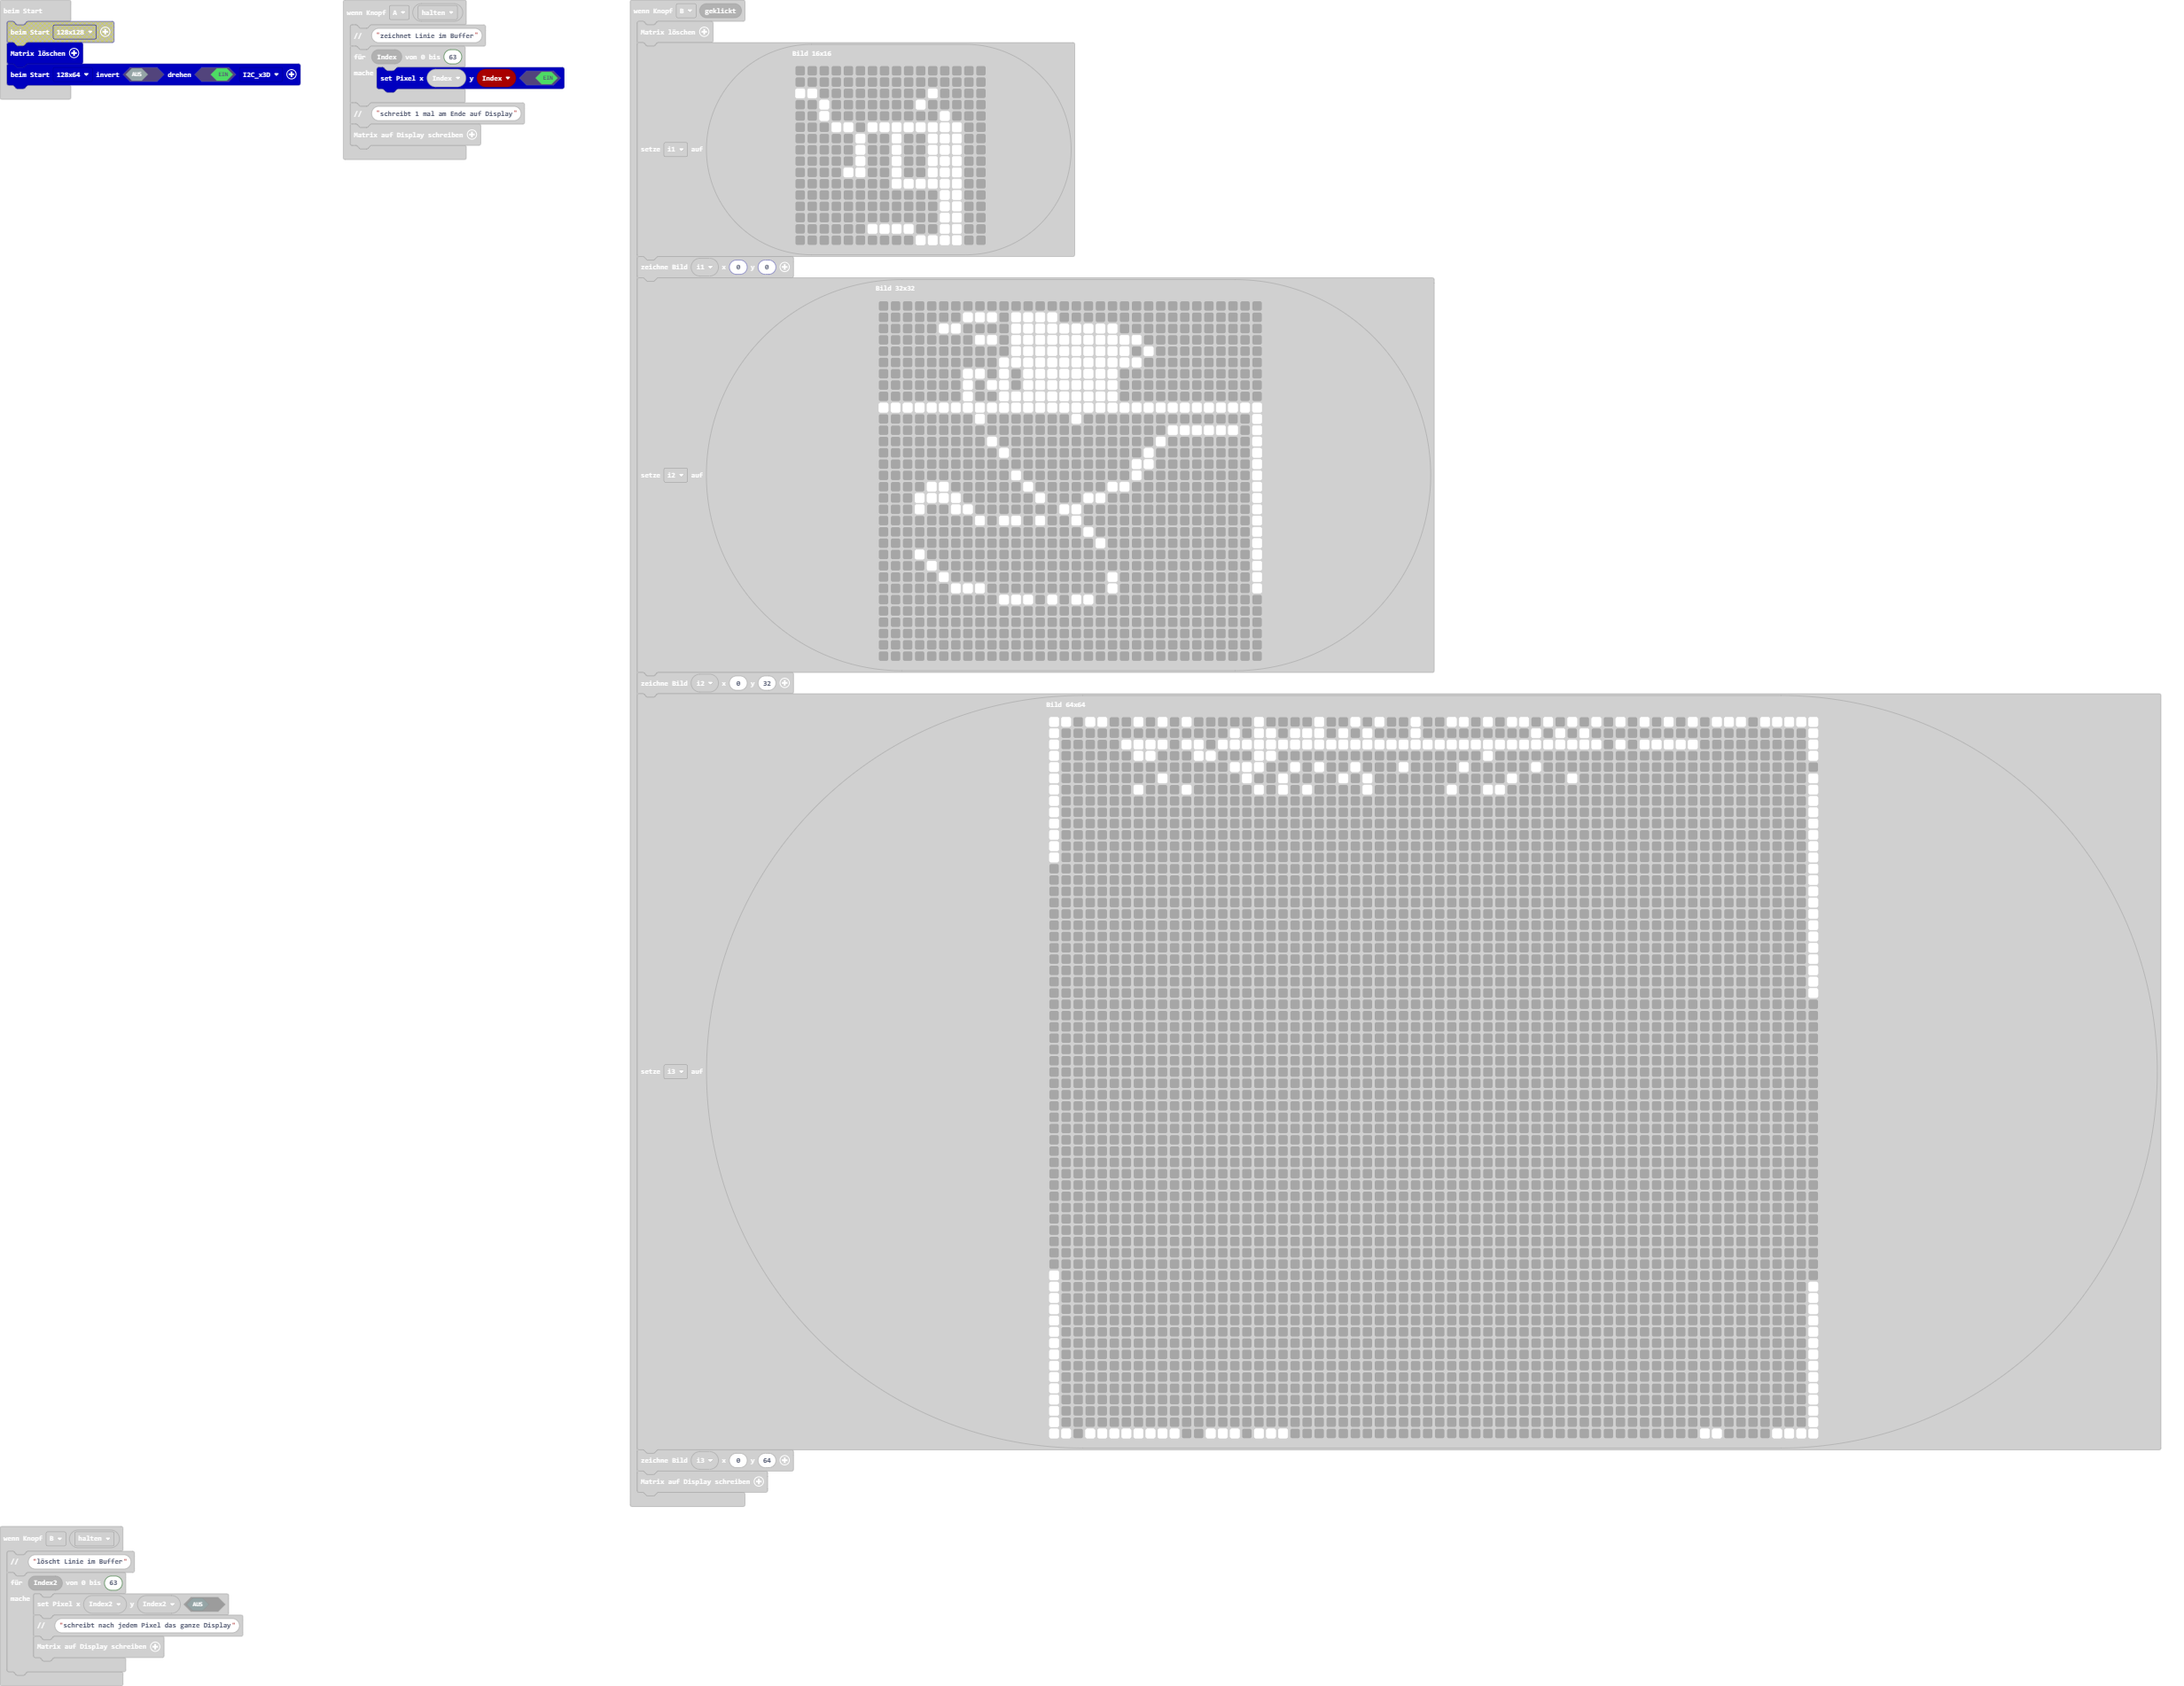
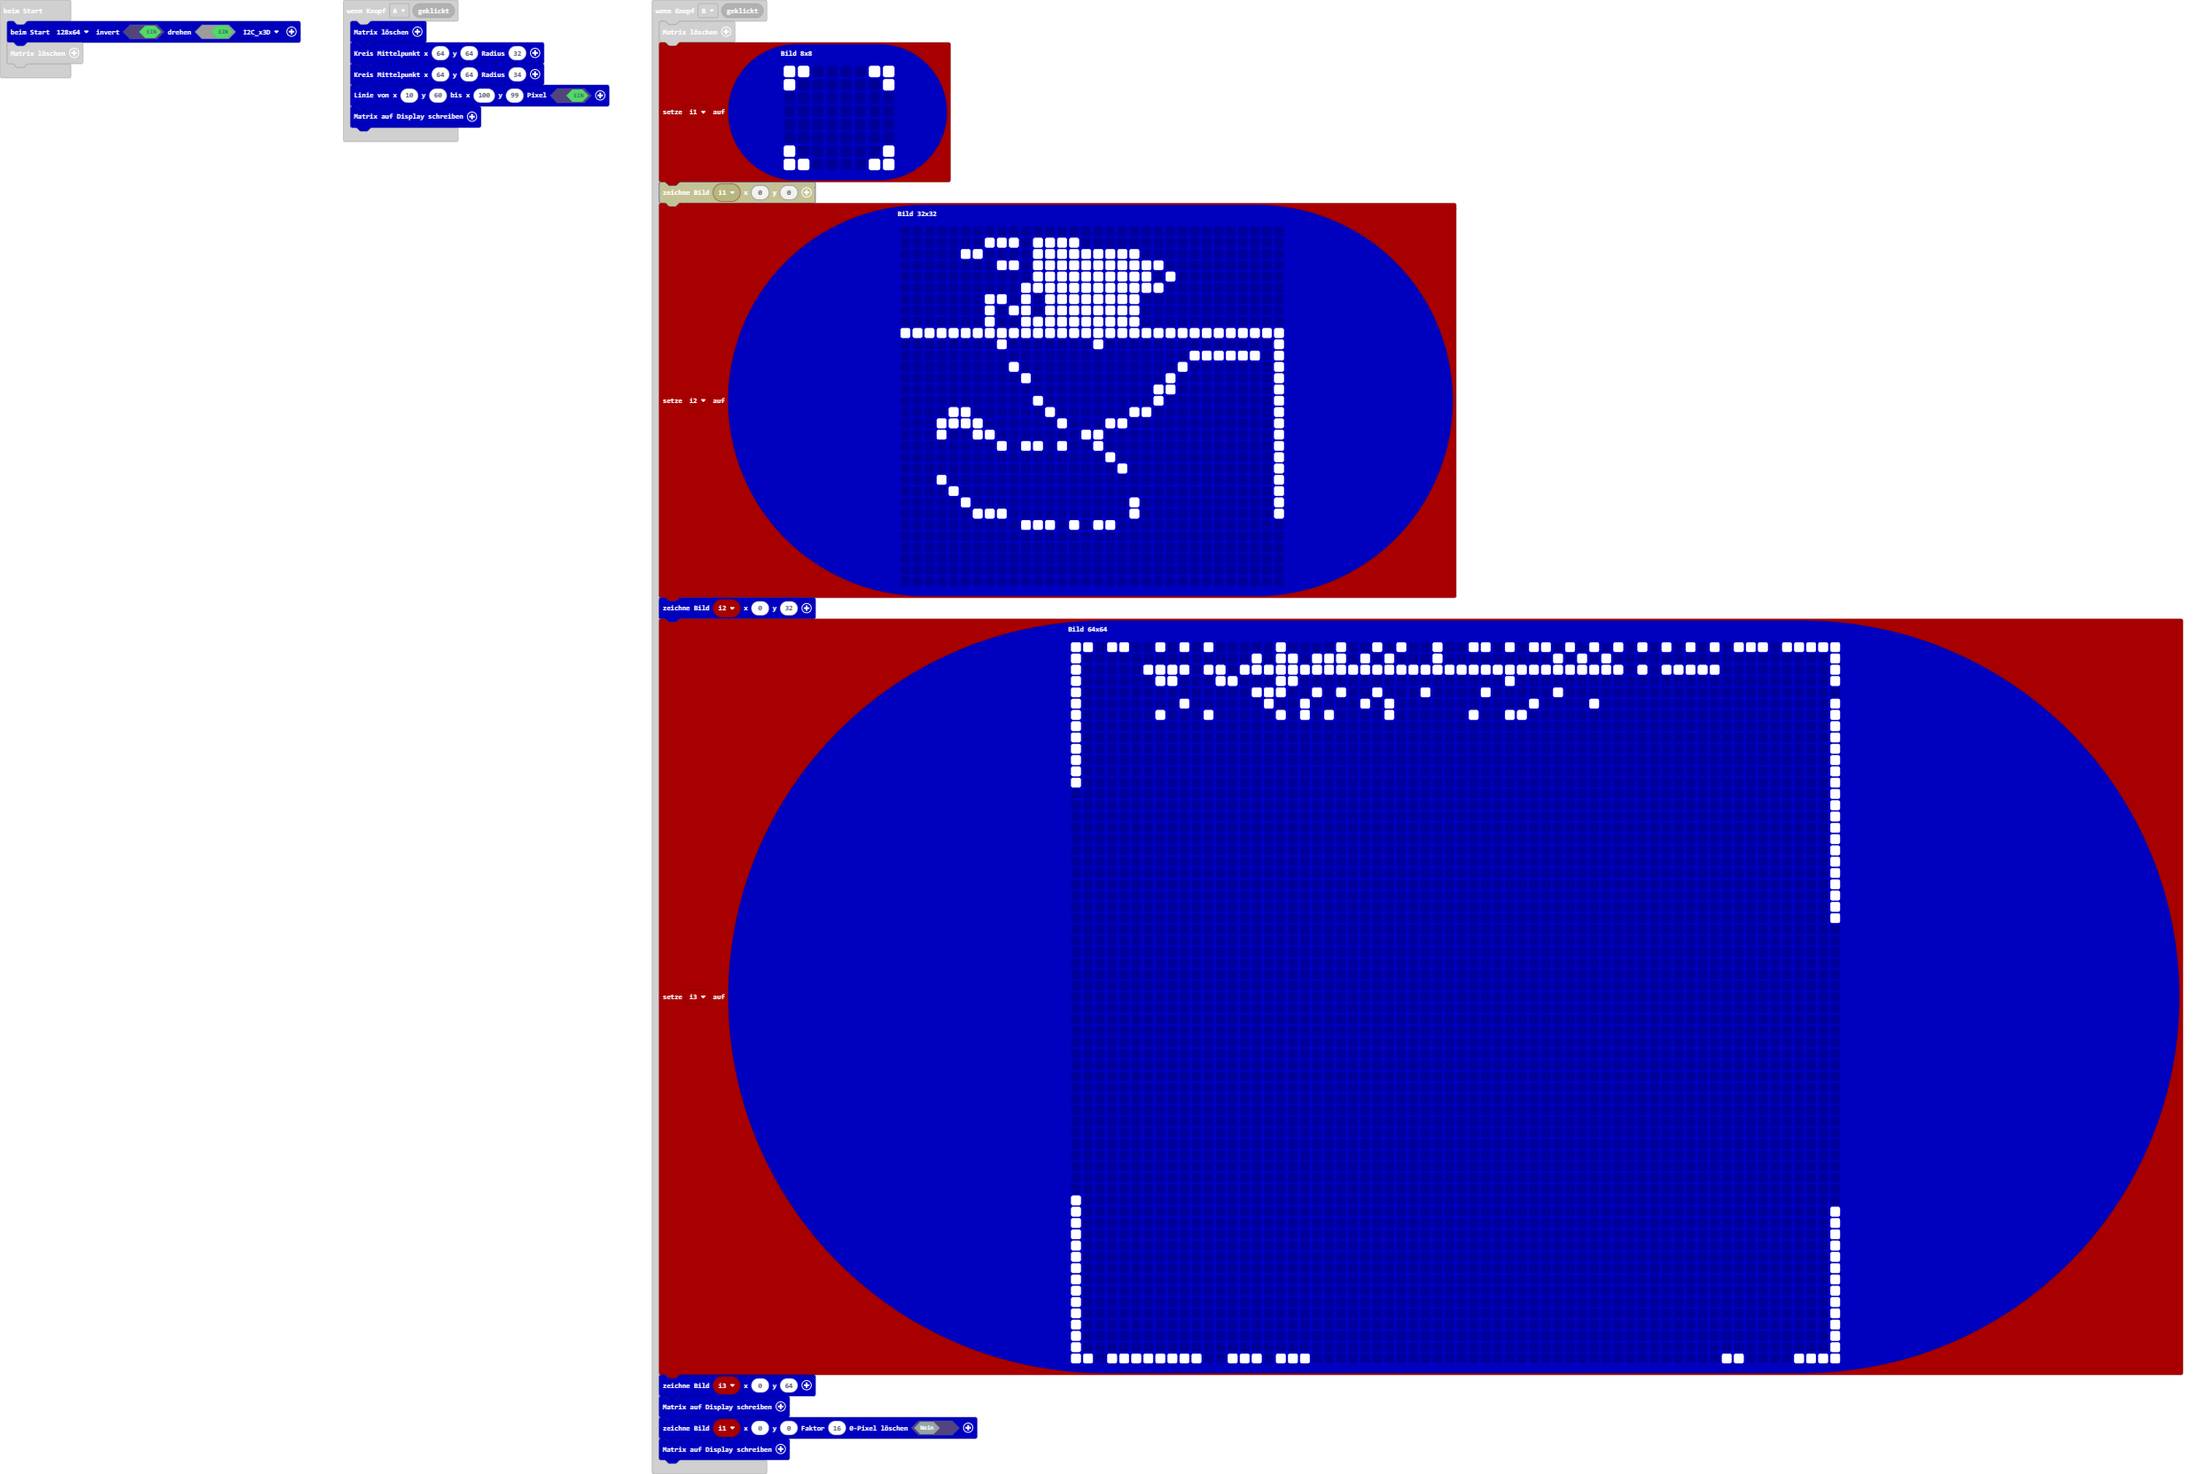
Aktualisiere main.blocks, main.ts

diff --git a/main.ts b/main.ts
@@ -1,4 +1,5 @@
 input.onButtonEvent(Button.A, input.buttonEventClick(), function () {
+    matrix.clearMatrix()
     matrix.rasterCircle(64, 64, 32)
     matrix.rasterCircle(64, 64, 34)
     matrix.line(10, 60, 100, 99, true)
@@ -17,127 +18,17 @@ input.onButtonEvent(Button.AB, input.buttonEventClick(), function () {
 })
 input.onButtonEvent(Button.B, input.buttonEventClick(), function () {
     matrix.clearMatrix()
-    i1 = matrix.matrix16x16(`
-        . . . . . . . . . . . . . . . .
-        . . . . . . . . . . . . . . . .
-        # # . . . . . . . . . # . . . .
-        . . # . . . . . . . # . . . . .
-        . . # . . . . . . . . . # . . .
-        . . . # # . # # # # # # # # . .
-        . . . . . # . . # . . # # # . .
-        . . . . . # . . # . . # # # . .
-        . . . . . # . . # . . # # # . .
-        . . . . # # . . # . . # # # . .
-        . . . . . . . . # # # # # # . .
-        . . . . . . . . . . . . # # . .
-        . . . . . . . . . . . . # # . .
-        . . . . . . . . . . . . # # . .
-        . . . . . . # # # # . . # # . .
-        . . . . . . . . . . # # # # . .
+    i1 = matrix.matrix8x8(`
+        # # . . . . # #
+        # . . . . . . #
+        . . . . . . . .
+        . . . . . . . .
+        . . . . . . . .
+        . . . . . . . .
+        # . . . . . . #
+        # # . . . . # #
         `)
-    matrix.writeImageOLED(i1, 0, 0)
-    i2 = matrix.matrix32x32(`
-        . . . . . . . . . . . . . . . . . . . . . . . . . . . . . . . .
-        . . . . . . . # # # . # # # # . . . . . . . . . . . . . . . . .
-        . . . . . # # . . . . # # # # # # # # # . . . . . . . . . . . .
-        . . . . . . . . # # . # # # # # # # # # # # . . . . . . . . . .
-        . . . . . . . . . . . # # # # # # # # # # . # . . . . . . . . .
-        . . . . . . . . . . # # # # # # # # # # # # . . . . . . . . . .
-        . . . . . . . # # . # . # # # # # # # # . . . . . . . . . . . .
-        . . . . . . . # . # # . # # # # # # # # . . . . . . . . . . . .
-        . . . . . . . # . . # # # # # # # # # # . . . . . . . . . . . .
-        # # # # # # # # # # # # # # # # # # # # # # # # # # # # # # # #
-        . . . . . . . . # . . . . . . . # . . . . . . . . . . . . . . #
-        . . . . . . . . . . . . . . . . . . . . . . . . # # # # # # . #
-        . . . . . . . . . # . . . . . . . . . . . . . # . . . . . . . #
-        . . . . . . . . . . # . . . . . . . . . . . # . . . . . . . . #
-        . . . . . . . . . . . . . . . . . . . . . # # . . . . . . . . #
-        . . . . . . . . . . . # . . . . . . . . . # . . . . . . . . . #
-        . . . . # # . . . . . . # . . . . . . # # . . . . . . . . . . #
-        . . . # # # # . . . . . . # . . . # # . . . . . . . . . . . . #
-        . . . # . . # # . . . . . . . # # . . . . . . . . . . . . . . #
-        . . . . . . . . # . # # . # . . # . . . . . . . . . . . . . . #
-        . . . . . . . . . . . . . . . . . # . . . . . . . . . . . . . #
-        . . . . . . . . . . . . . . . . . . # . . . . . . . . . . . . #
-        . . . # . . . . . . . . . . . . . . . . . . . . . . . . . . . #
-        . . . . # . . . . . . . . . . . . . . . . . . . . . . . . . . #
-        . . . . . # . . . . . . . . . . . . . # . . . . . . . . . . . #
-        . . . . . . # # # . . . . . . . . . . # . . . . . . . . . . . #
-        . . . . . . . . . . # # # . # . # # . . . . . . . . . . . . . .
-        . . . . . . . . . . . . . . . . . . . . . . . . . . . . . . . .
-        . . . . . . . . . . . . . . . . . . . . . . . . . . . . . . . .
-        . . . . . . . . . . . . . . . . . . . . . . . . . . . . . . . .
-        . . . . . . . . . . . . . . . . . . . . . . . . . . . . . . . .
-        . . . . . . . . . . . . . . . . . . . . . . . . . . . . . . . .
-        `)
-    matrix.writeImageOLED(i2, 0, 32)
-    i3 = matrix.matrix64x64(`
-        # # . # # . . # . # . # . . . . . # . . . . # . . # . # . . # . . # # . # . # # . # . # . # . # . # . # . # . # # # . # # # # #
-        # . . . . . . . . . . . . . . # . # # . # # # . # . # . . . # . . . . . . . . . # . # . # . . . . . . . . . . . . . . . . . . #
-        # . . . . . # # # # . # # . # # # # # # # # # # # # # # # # # # # # # # # # # # # # # # # # . # . # # # # # . . . . . . . . . #
-        # . . . . . . # # . . . # # . . . # # . . . . . . . . . . . . . . . . . # . . . . . . . . . . . . . . . . . . . . . . . . . . #
-        # . . . . . . . . . . . . . . # # # . . # . # . . # . . . # . . . . # . . . . . # . . . . . . . . . . . . . . . . . . . . . . .
-        # . . . . . . . . # . . . . . . # . . # . . . . # . # . . . . . . . . . . . # . . . . # . . . . . . . . . . . . . . . . . . . #
-        # . . . . . . # . . . # . . . . . # . # . # . . . . # . . . . . . # . . # # . . . . . . . . . . . . . . . . . . . . . . . . . #
-        # . . . . . . . . . . . . . . . . . . . . . . . . . . . . . . . . . . . . . . . . . . . . . . . . . . . . . . . . . . . . . . #
-        # . . . . . . . . . . . . . . . . . . . . . . . . . . . . . . . . . . . . . . . . . . . . . . . . . . . . . . . . . . . . . . #
-        # . . . . . . . . . . . . . . . . . . . . . . . . . . . . . . . . . . . . . . . . . . . . . . . . . . . . . . . . . . . . . . #
-        # . . . . . . . . . . . . . . . . . . . . . . . . . . . . . . . . . . . . . . . . . . . . . . . . . . . . . . . . . . . . . . #
-        # . . . . . . . . . . . . . . . . . . . . . . . . . . . . . . . . . . . . . . . . . . . . . . . . . . . . . . . . . . . . . . #
-        # . . . . . . . . . . . . . . . . . . . . . . . . . . . . . . . . . . . . . . . . . . . . . . . . . . . . . . . . . . . . . . #
-        . . . . . . . . . . . . . . . . . . . . . . . . . . . . . . . . . . . . . . . . . . . . . . . . . . . . . . . . . . . . . . . #
-        . . . . . . . . . . . . . . . . . . . . . . . . . . . . . . . . . . . . . . . . . . . . . . . . . . . . . . . . . . . . . . . #
-        . . . . . . . . . . . . . . . . . . . . . . . . . . . . . . . . . . . . . . . . . . . . . . . . . . . . . . . . . . . . . . . #
-        . . . . . . . . . . . . . . . . . . . . . . . . . . . . . . . . . . . . . . . . . . . . . . . . . . . . . . . . . . . . . . . #
-        . . . . . . . . . . . . . . . . . . . . . . . . . . . . . . . . . . . . . . . . . . . . . . . . . . . . . . . . . . . . . . . #
-        . . . . . . . . . . . . . . . . . . . . . . . . . . . . . . . . . . . . . . . . . . . . . . . . . . . . . . . . . . . . . . . #
-        . . . . . . . . . . . . . . . . . . . . . . . . . . . . . . . . . . . . . . . . . . . . . . . . . . . . . . . . . . . . . . . #
-        . . . . . . . . . . . . . . . . . . . . . . . . . . . . . . . . . . . . . . . . . . . . . . . . . . . . . . . . . . . . . . . #
-        . . . . . . . . . . . . . . . . . . . . . . . . . . . . . . . . . . . . . . . . . . . . . . . . . . . . . . . . . . . . . . . #
-        . . . . . . . . . . . . . . . . . . . . . . . . . . . . . . . . . . . . . . . . . . . . . . . . . . . . . . . . . . . . . . . #
-        . . . . . . . . . . . . . . . . . . . . . . . . . . . . . . . . . . . . . . . . . . . . . . . . . . . . . . . . . . . . . . . #
-        . . . . . . . . . . . . . . . . . . . . . . . . . . . . . . . . . . . . . . . . . . . . . . . . . . . . . . . . . . . . . . . #
-        . . . . . . . . . . . . . . . . . . . . . . . . . . . . . . . . . . . . . . . . . . . . . . . . . . . . . . . . . . . . . . . .
-        . . . . . . . . . . . . . . . . . . . . . . . . . . . . . . . . . . . . . . . . . . . . . . . . . . . . . . . . . . . . . . . .
-        . . . . . . . . . . . . . . . . . . . . . . . . . . . . . . . . . . . . . . . . . . . . . . . . . . . . . . . . . . . . . . . .
-        . . . . . . . . . . . . . . . . . . . . . . . . . . . . . . . . . . . . . . . . . . . . . . . . . . . . . . . . . . . . . . . .
-        . . . . . . . . . . . . . . . . . . . . . . . . . . . . . . . . . . . . . . . . . . . . . . . . . . . . . . . . . . . . . . . .
-        . . . . . . . . . . . . . . . . . . . . . . . . . . . . . . . . . . . . . . . . . . . . . . . . . . . . . . . . . . . . . . . .
-        . . . . . . . . . . . . . . . . . . . . . . . . . . . . . . . . . . . . . . . . . . . . . . . . . . . . . . . . . . . . . . . .
-        . . . . . . . . . . . . . . . . . . . . . . . . . . . . . . . . . . . . . . . . . . . . . . . . . . . . . . . . . . . . . . . .
-        . . . . . . . . . . . . . . . . . . . . . . . . . . . . . . . . . . . . . . . . . . . . . . . . . . . . . . . . . . . . . . . .
-        . . . . . . . . . . . . . . . . . . . . . . . . . . . . . . . . . . . . . . . . . . . . . . . . . . . . . . . . . . . . . . . .
-        . . . . . . . . . . . . . . . . . . . . . . . . . . . . . . . . . . . . . . . . . . . . . . . . . . . . . . . . . . . . . . . .
-        . . . . . . . . . . . . . . . . . . . . . . . . . . . . . . . . . . . . . . . . . . . . . . . . . . . . . . . . . . . . . . . .
-        . . . . . . . . . . . . . . . . . . . . . . . . . . . . . . . . . . . . . . . . . . . . . . . . . . . . . . . . . . . . . . . .
-        . . . . . . . . . . . . . . . . . . . . . . . . . . . . . . . . . . . . . . . . . . . . . . . . . . . . . . . . . . . . . . . .
-        . . . . . . . . . . . . . . . . . . . . . . . . . . . . . . . . . . . . . . . . . . . . . . . . . . . . . . . . . . . . . . . .
-        . . . . . . . . . . . . . . . . . . . . . . . . . . . . . . . . . . . . . . . . . . . . . . . . . . . . . . . . . . . . . . . .
-        . . . . . . . . . . . . . . . . . . . . . . . . . . . . . . . . . . . . . . . . . . . . . . . . . . . . . . . . . . . . . . . .
-        . . . . . . . . . . . . . . . . . . . . . . . . . . . . . . . . . . . . . . . . . . . . . . . . . . . . . . . . . . . . . . . .
-        . . . . . . . . . . . . . . . . . . . . . . . . . . . . . . . . . . . . . . . . . . . . . . . . . . . . . . . . . . . . . . . .
-        . . . . . . . . . . . . . . . . . . . . . . . . . . . . . . . . . . . . . . . . . . . . . . . . . . . . . . . . . . . . . . . .
-        . . . . . . . . . . . . . . . . . . . . . . . . . . . . . . . . . . . . . . . . . . . . . . . . . . . . . . . . . . . . . . . .
-        . . . . . . . . . . . . . . . . . . . . . . . . . . . . . . . . . . . . . . . . . . . . . . . . . . . . . . . . . . . . . . . .
-        . . . . . . . . . . . . . . . . . . . . . . . . . . . . . . . . . . . . . . . . . . . . . . . . . . . . . . . . . . . . . . . .
-        . . . . . . . . . . . . . . . . . . . . . . . . . . . . . . . . . . . . . . . . . . . . . . . . . . . . . . . . . . . . . . . .
-        # . . . . . . . . . . . . . . . . . . . . . . . . . . . . . . . . . . . . . . . . . . . . . . . . . . . . . . . . . . . . . . .
-        # . . . . . . . . . . . . . . . . . . . . . . . . . . . . . . . . . . . . . . . . . . . . . . . . . . . . . . . . . . . . . . #
-        # . . . . . . . . . . . . . . . . . . . . . . . . . . . . . . . . . . . . . . . . . . . . . . . . . . . . . . . . . . . . . . #
-        # . . . . . . . . . . . . . . . . . . . . . . . . . . . . . . . . . . . . . . . . . . . . . . . . . . . . . . . . . . . . . . #
-        # . . . . . . . . . . . . . . . . . . . . . . . . . . . . . . . . . . . . . . . . . . . . . . . . . . . . . . . . . . . . . . #
-        # . . . . . . . . . . . . . . . . . . . . . . . . . . . . . . . . . . . . . . . . . . . . . . . . . . . . . . . . . . . . . . #
-        # . . . . . . . . . . . . . . . . . . . . . . . . . . . . . . . . . . . . . . . . . . . . . . . . . . . . . . . . . . . . . . #
-        # . . . . . . . . . . . . . . . . . . . . . . . . . . . . . . . . . . . . . . . . . . . . . . . . . . . . . . . . . . . . . . #
-        # . . . . . . . . . . . . . . . . . . . . . . . . . . . . . . . . . . . . . . . . . . . . . . . . . . . . . . . . . . . . . . #
-        # . . . . . . . . . . . . . . . . . . . . . . . . . . . . . . . . . . . . . . . . . . . . . . . . . . . . . . . . . . . . . . #
-        # . . . . . . . . . . . . . . . . . . . . . . . . . . . . . . . . . . . . . . . . . . . . . . . . . . . . . . . . . . . . . . #
-        # . . . . . . . . . . . . . . . . . . . . . . . . . . . . . . . . . . . . . . . . . . . . . . . . . . . . . . . . . . . . . . #
-        # . . . . . . . . . . . . . . . . . . . . . . . . . . . . . . . . . . . . . . . . . . . . . . . . . . . . . . . . . . . . . . #
-        # . . . . . . . . . . . . . . . . . . . . . . . . . . . . . . . . . . . . . . . . . . . . . . . . . . . . . . . . . . . . . . #
-        # # . # # # # # # # # . . # # # . # # # . . . . . . . . . . . . . . . . . . . . . . . . . . . . . . . . . . # # . . . . # # # #
-        `)
-    matrix.writeImageOLED(i3, 0, 64)
+    matrix.writeImage(i1, 0, 0, 16)
     matrix.writeDisplay()
 })
 input.onButtonEvent(Button.A, ButtonEvent.Hold, function () {
@@ -162,10 +53,8 @@ function Konfiguration () {
     matrix.comment("Code Datei: matrix.ts")
     matrix.comment("Grove - OLED Display 1.12 (SH1107) V3.0 - SPI/IIC -3.3V/5V")
 }
-let i3: Image = null
-let i2: Image = null
 let i1: Image = null
 let y = 0
 let x = 0
-matrix.init(matrix.ePages.y64, false, true, matrix.eI2C.I2C_x3D)
+matrix.init(matrix.ePages.y64, true)
 matrix.clearMatrix()
